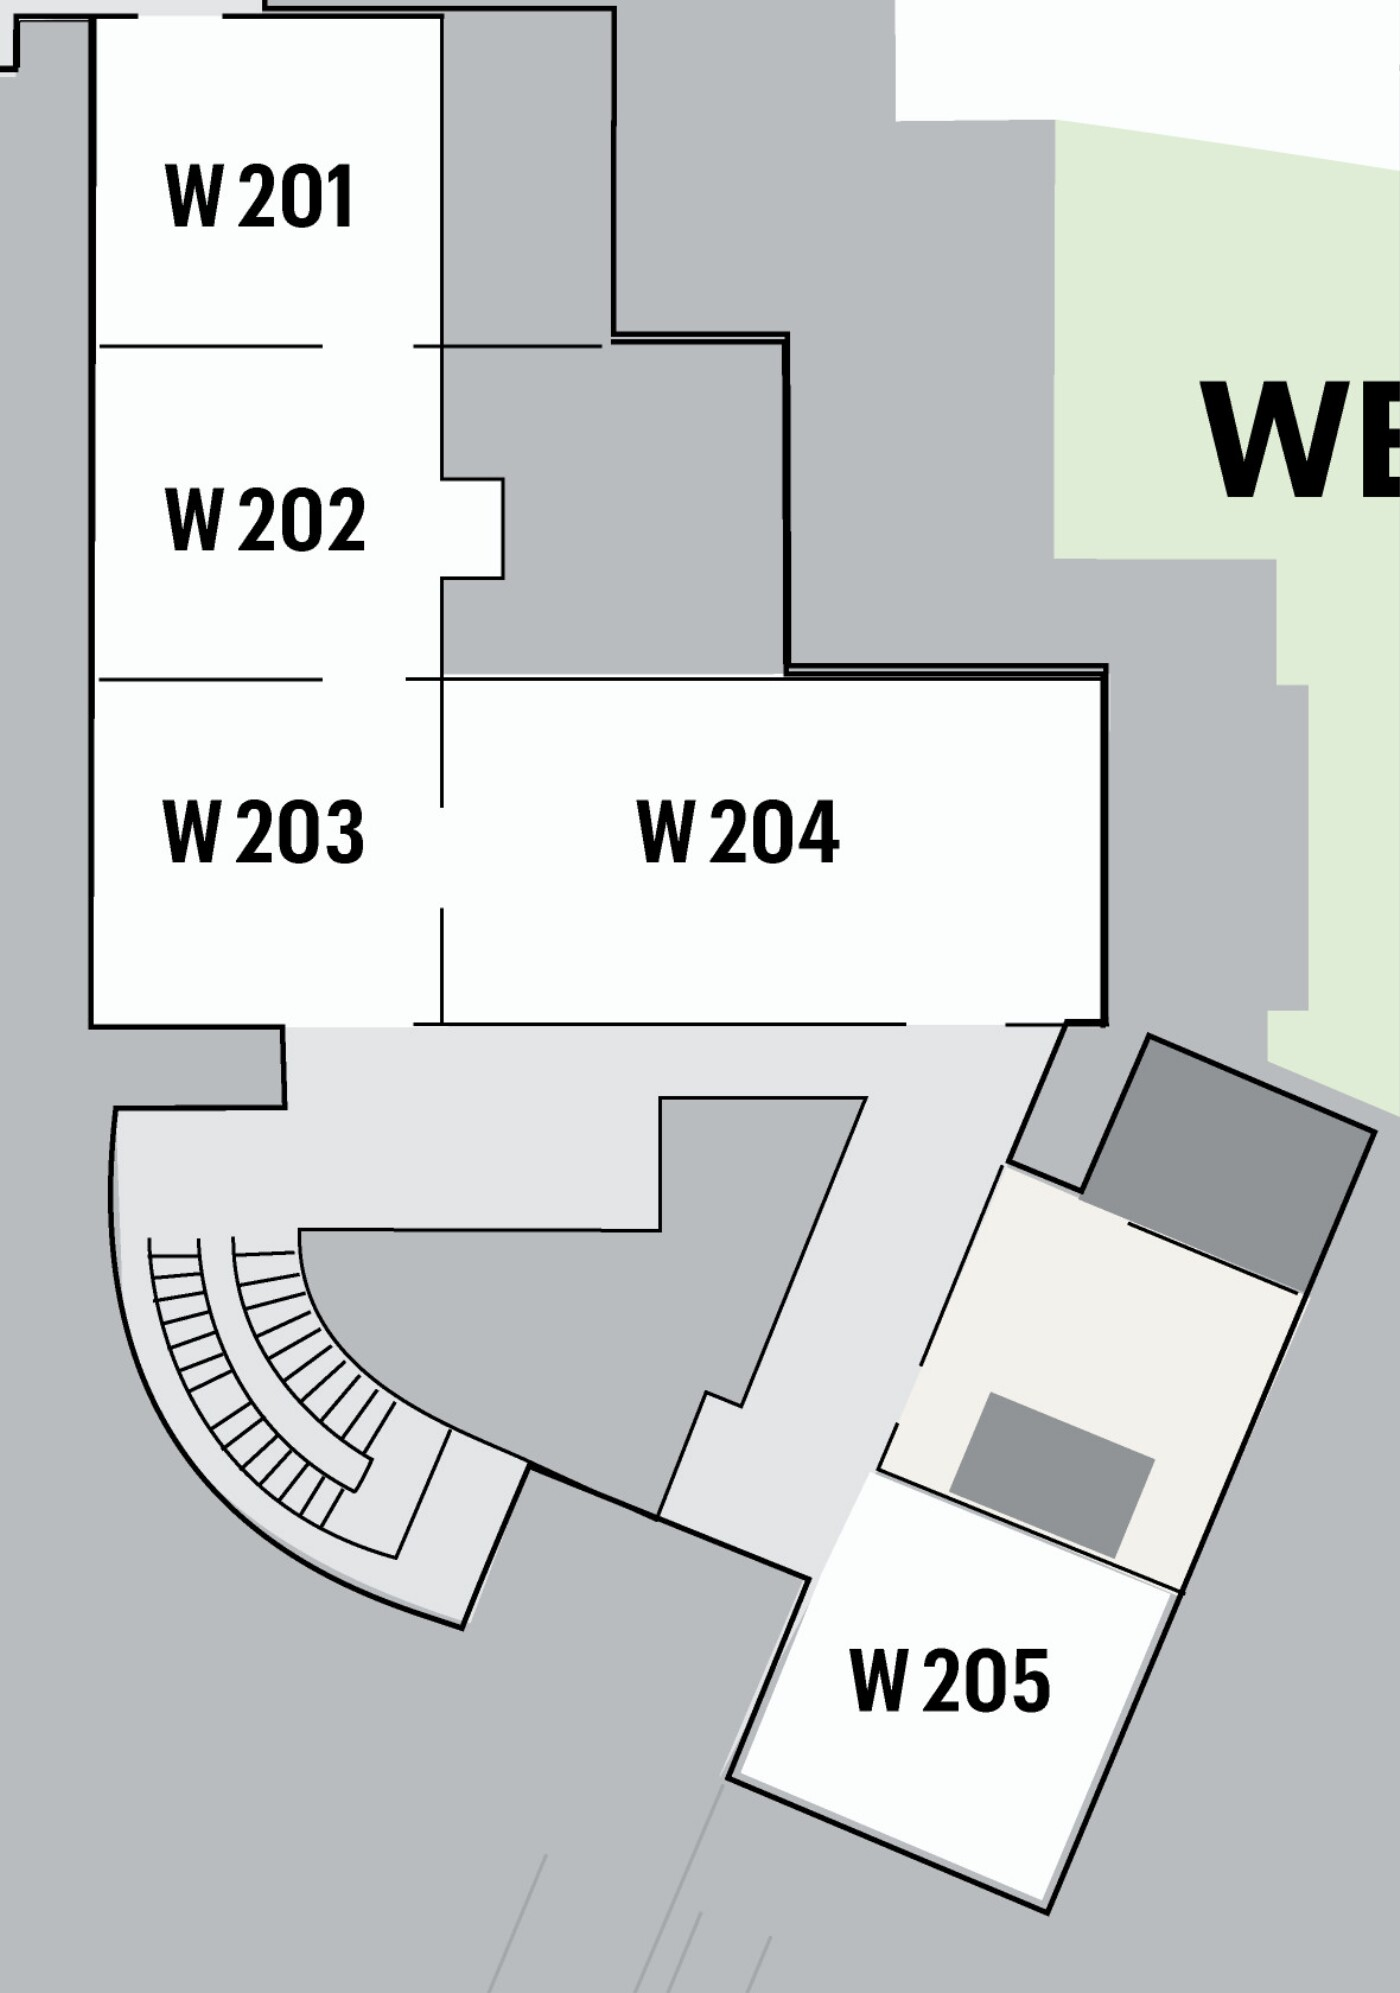
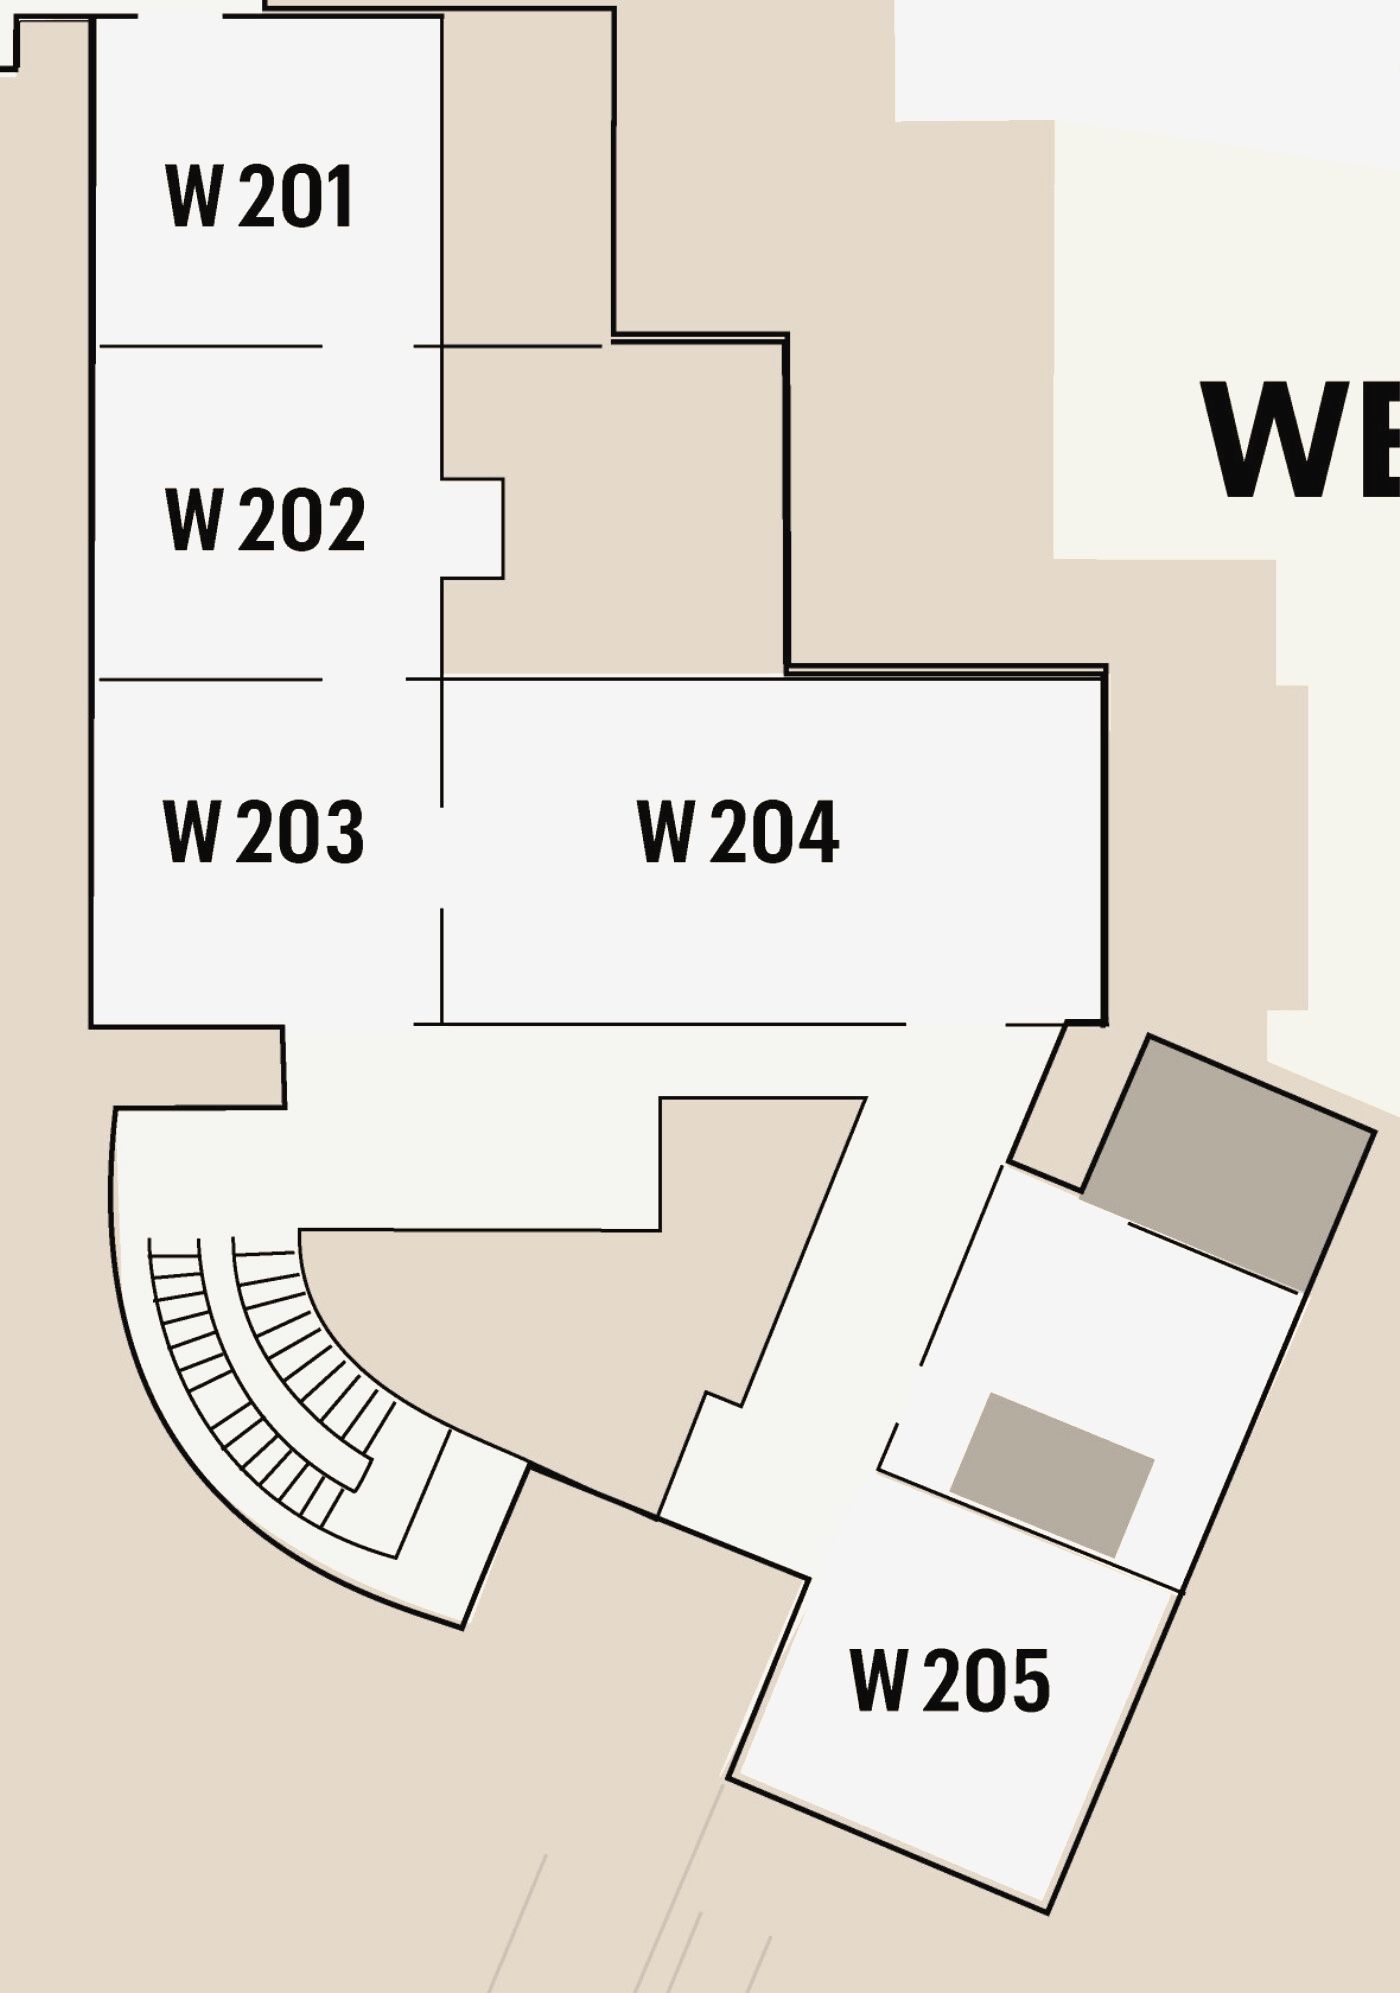
fix blurry west-2f plan and clipped floor-chip nav
- bake the warm tint into west-2f-base.jpg and drop the live CSS filter:
  a filter on an SVG <image> rasterises at 1x CSS px then upscales on
  Retina, which is what blurred the plan on desktop. Baking keeps it sharp.
- room-number cover rects now use the baked room fill #f4f4f4 (kept the raw
  crop as west-2f-raw.jpg so the tint stays re-bakeable)
- measure the mode-toggle height at runtime (incl. after the Noto Sans SC
  webfont loads and grows the pills) and drive --mode-h / --top-stack-h from
  it, so the floor chips never hide behind the toggle at any width

diff --git a/quartz/static/getty/floorplans.html b/quartz/static/getty/floorplans.html
@@ -250,7 +250,12 @@ em { font-family: 'Cormorant Garamond', serif; font-style: italic; font-weight: 
 .signage-svg text.room-num.visited { fill: #ab9f88; font-weight: 500; }   /* already-visited rooms read as grey */
 .room-tint { display: none !important; }   /* visited-state now shown via the greyed room number */
 .visit-badge { display: none !important; }   /* retired: grey room number + footprints convey visited + order */
-.signage-svg .floor-photo { filter: sepia(.55) hue-rotate(-8deg) saturate(.65) brightness(1.08) contrast(.92); }
+/* West-2F plan base: the warm site tint is BAKED into west-2f-base.jpg, so there is
+   NO live CSS filter here (a filter on an SVG <image> rasterises at 1× CSS px and then
+   upscales on Retina → blur; baking keeps it pixel-sharp). To re-bake from the raw crop
+   img/west-2f-raw.jpg, apply this exact filter chain and re-export the JPEG:
+     sepia(.55) hue-rotate(-8deg) saturate(.65) brightness(1.08) contrast(.92)
+   The baked room interior is #f4f4f4 — the room-number cover rects are filled to match. */
 .floor-canvas .floor-bg.tinted {
   /* Convert Getty blue → cream/beige to match site theme (only for PDF crops) */
   filter: sepia(1) hue-rotate(-18deg) saturate(0.7) brightness(1.06) contrast(.95);
@@ -968,7 +973,7 @@ em { font-family: 'Cormorant Garamond', serif; font-style: italic; font-weight: 
 
 .sticky-top {
   position: fixed;
-  top: calc(58px + env(safe-area-inset-top));  /* sits below the mode-toggle (real height ≈58px: 45px pills + 12px padding), not the old 48px guess that let the toggle overlap & clip the chips */
+  top: var(--mode-h, calc(58px + env(safe-area-inset-top)));  /* exact mode-toggle height, measured at runtime (incl. after the Noto webfont loads & grows the pills) so the chips never hide behind it */
   left: 0; right: 0;
   min-height: 60px;
   background: var(--bg);
@@ -1241,7 +1246,7 @@ em { font-family: 'Cormorant Garamond', serif; font-style: italic; font-weight: 
 
 /* Mobile activation: show sticky bars, hide originals */
 @media (max-width: 768px) {
-  body { padding-top: calc(118px + env(safe-area-inset-top)); padding-bottom: 88px; }   /* 58 mode-toggle + 60 sticky-top */
+  body { padding-top: var(--top-stack-h, calc(118px + env(safe-area-inset-top))); padding-bottom: 88px; }   /* mode-toggle + sticky-top, measured at runtime (JS) */
   .sticky-top { display: flex; }
   .action-bar { display: flex; }
   .page-header .back-link,
@@ -1310,17 +1315,13 @@ em { font-family: 'Cormorant Garamond', serif; font-style: italic; font-weight: 
   <div class="floor-plan">
     <div class="floor-svg-wrap">
       <svg viewBox="0 0 700 997" xmlns="http://www.w3.org/2000/svg" xmlns:xlink="http://www.w3.org/1999/xlink" class="signage-svg" preserveAspectRatio="xMidYMid meet">
-        <!-- Official Getty Upper-Level plan crop (West Pavilion), tinted to the site palette -->
-        <!-- Official Getty Upper-Level plan crop (West Pavilion) as a tinted base.
-             Cover rects (inside the tinted group so they share the tint) blank out the
-             baked-in room numbers + the off-building garden/label clutter; our own small
-             room numbers are drawn on top. -->
-        <!-- The room-number cover-ups live INSIDE the tinted group with the photo's own
-             pre-tint room white (#fcfefd), so the filter tints them identically to the
-             rooms in EVERY browser — no cross-engine colour mismatch. -->
+        <!-- Official Getty Upper-Level plan crop (West Pavilion). The warm site tint is
+             BAKED into west-2f-base.jpg, so the image needs NO live CSS filter (which would
+             blur on Retina). Cover rects use the baked room fill #f4f4f4 to blank the
+             plan's printed room numbers; our own room numbers are drawn on top. -->
         <g class="floor-photo">
           <image href="img/west-2f-base.jpg" xlink:href="img/west-2f-base.jpg" x="0" y="0" width="700" height="997"/>
-          <g fill="#fcfefd">
+          <g fill="#f4f4f4">
             <rect x="64"  y="72"  width="132" height="60"/>
             <rect x="60"  y="236" width="132" height="60"/>
             <rect x="64"  y="392" width="136" height="64"/>
@@ -4219,6 +4220,31 @@ function showRoomToast(room) {
   document.addEventListener('footprints-changed', update);
   document.addEventListener('clear-all-footprints', function(){ setTimeout(update, 0); });
   update();
+})();
+
+/* ===== Top-nav height sync — pin the floor-chip bar exactly under the mode-toggle.
+   The mode-toggle's height is NOT constant: it grows a few px when the Noto Sans SC
+   webfont swaps in, and varies with the notch safe-area. A hard-coded 58px offset let
+   the toggle overlap & clip the chips. Measure it live and feed the real height into
+   --mode-h (chip-bar top) and --top-stack-h (body padding) instead. ===== */
+(function() {
+  var root = document.documentElement;
+  var mode = document.querySelector('.mode-toggle');
+  var sticky = document.querySelector('.sticky-top');
+  if (!mode) return;
+  function sync() {
+    var mh = Math.round(mode.getBoundingClientRect().height);
+    if (!mh) return;
+    root.style.setProperty('--mode-h', mh + 'px');
+    var sh = sticky ? Math.round(sticky.getBoundingClientRect().height) : 0;  // 0 on desktop (display:none) — body padding var is mobile-only
+    root.style.setProperty('--top-stack-h', (mh + sh) + 'px');
+  }
+  sync();
+  window.addEventListener('resize', sync);
+  window.addEventListener('orientationchange', sync);
+  window.addEventListener('load', sync);
+  if (document.fonts && document.fonts.ready) { document.fonts.ready.then(sync); }   // re-measure after the webfont grows the pills
+  if (window.ResizeObserver) { new ResizeObserver(sync).observe(mode); }
 })();
 
 /* ===== Modal read-aloud via Web Speech API (browser TTS) ===== */